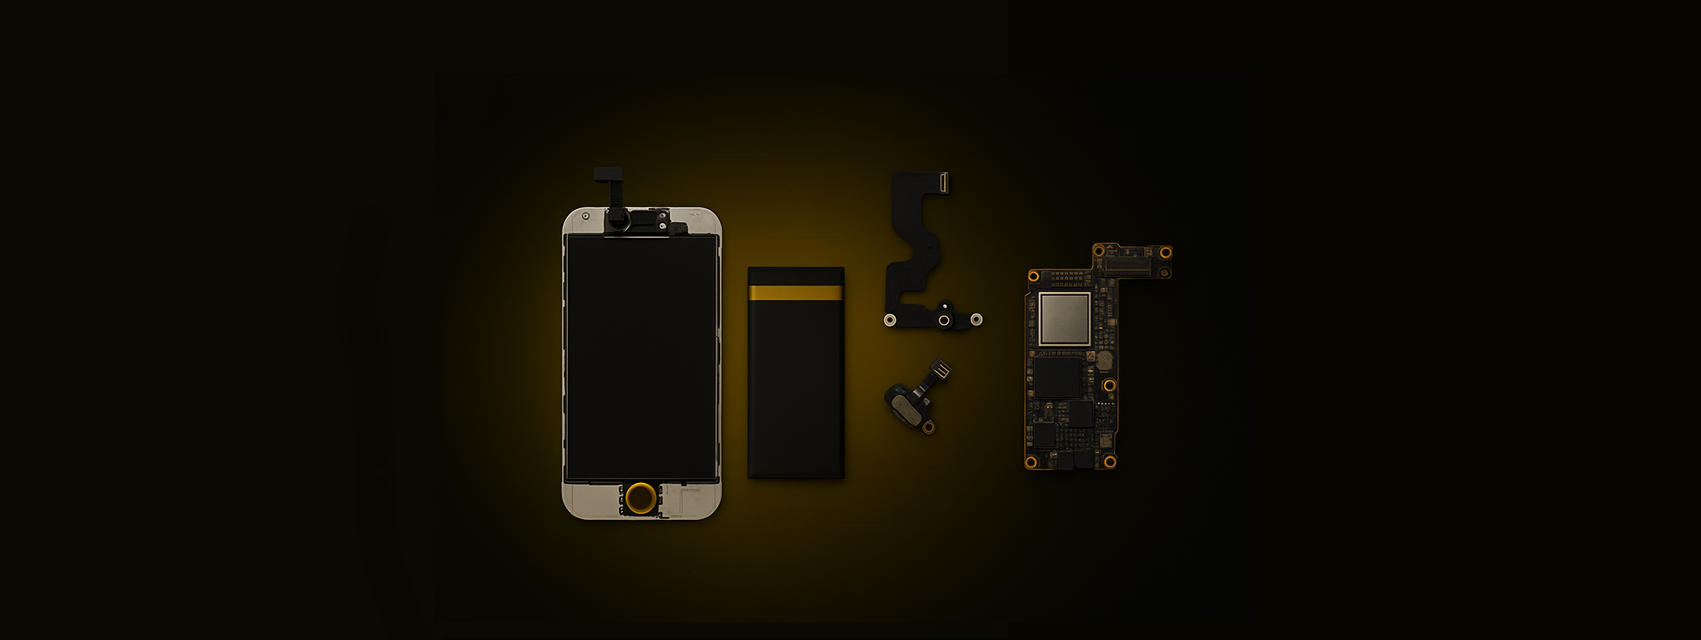
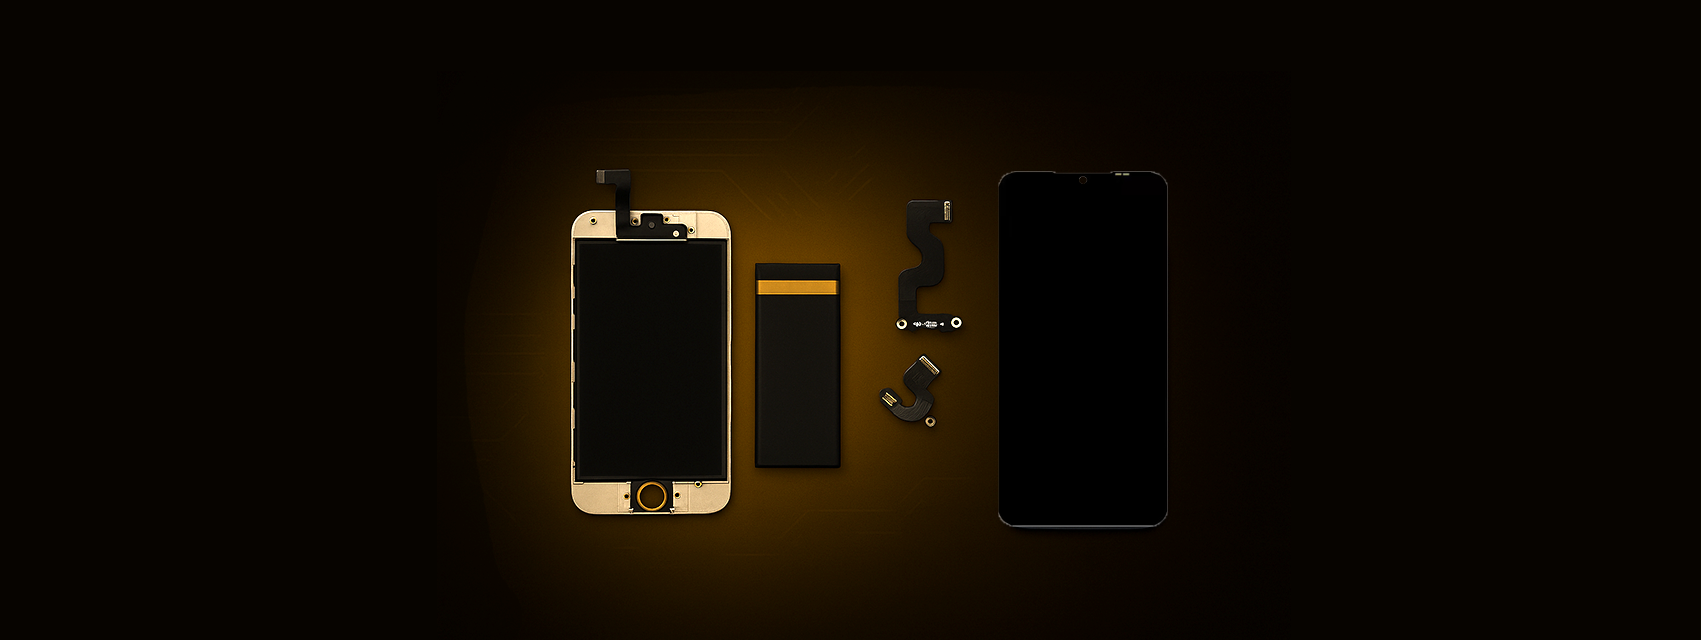
feature: paginado de marcas y productos en el admin

Changed region(s): [[0.3116, 0.25, 0.6855, 0.8438], [0.592, 0.8125, 0.6855, 0.8438], [0.6543, 0.25, 0.6855, 0.2812]]

diff --git a/src/app/(root)/admin/product/components/table.jsx b/src/app/(root)/admin/product/components/table.jsx
@@ -1,30 +1,46 @@
 "use client";
 
 import { useEffect, useState } from "react";
-import { getProductsAction, deleteProductAction } from "@/actions/product";
+import { getProductsAdminAction, deleteProductAction } from "@/actions/product";
 import { Trash2 } from "lucide-react"; 
 import Swal from "sweetalert2";
 import CustomLoading from "@/app/components/customLoading";
+import PaginationAdminComponent from "../../components/paginationAdmin";
 
 const Table = () => {
   const [products, setProducts] = useState([]);
   const [loading, setLoading] = useState(true);
+  const [currentPage, setCurrentPage] = useState(0);
+  const [totalPages, setTotalPages] = useState(1);
+  const size = 10; 
+
 
   useEffect(() => {
     fetchProducts();
   }, []);
 
-  const fetchProducts = async () => {
+  const fetchProducts = async (page = 0) => {
     try {
       setLoading(true);
-      const data = await getProductsAction();
+      const { data, totalPages } = await getProductsAdminAction(page, size);
       setProducts(data);
+      setTotalPages(totalPages);
     } catch (err) {
       console.error(err);
     } finally {
       setLoading(false);
     }
   };
+
+  useEffect(() => {
+    fetchProducts(currentPage);
+  }, [currentPage]);
+
+  const handlePageChange = (page) => {
+    setCurrentPage(page);
+  };
+
+
 
   const handleDelete = async (product) => {
     const result = await Swal.fire({
@@ -142,6 +158,11 @@ const Table = () => {
               ))}
             </tbody>
           </table>
+          <PaginationAdminComponent
+            currentPage={currentPage}
+            totalPages={totalPages}
+            onPageChange={handlePageChange}
+          />
         </div>
       )}
     </div>

diff --git a/src/app/(root)/admin/brand/components/tableBrands.jsx b/src/app/(root)/admin/brand/components/tableBrands.jsx
@@ -5,25 +5,39 @@ import { getBrandsAction, deleteBrandAction } from "@/actions/brand";
 import { Trash2 } from "lucide-react"; 
 import Swal from "sweetalert2";
 import CustomLoading from "@/app/components/customLoading";
+import PaginationAdminComponent from "../../components/paginationAdmin";
 
 const TableBrands = () => {
   const [brands, setBrands] = useState([]);
   const [loading, setLoading] = useState(true);
+  const [currentPage, setCurrentPage] = useState(0);
+  const [totalPages, setTotalPages] = useState(1);
+  const size = 10; 
+
 
   useEffect(() => {
     fetchBrands();
   }, []);
 
-  const fetchBrands = async () => {
+  const fetchBrands = async (page = 0) => {
     try {
       setLoading(true);
-      const data = await getBrandsAction();
+      const { data, totalPages } = await getBrandsAction(page, size);
       setBrands(data);
+      setTotalPages(totalPages);
     } catch (err) {
       console.error(err);
     } finally {
       setLoading(false);
     }
+  };
+
+  useEffect(() => {
+    fetchBrands(currentPage);
+  }, [currentPage]);
+
+  const handlePageChange = (page) => {
+    setCurrentPage(page);
   };
 
   const handleDelete = async (brand) => {
@@ -124,6 +138,12 @@ const TableBrands = () => {
               ))}
             </tbody>
           </table>
+          <PaginationAdminComponent
+            currentPage={currentPage}
+            totalPages={totalPages}
+            onPageChange={handlePageChange}
+          />
+
         </div>
       )}
     </div>

diff --git a/src/actions/brand.js b/src/actions/brand.js
@@ -1,10 +1,14 @@
 'use server'
 
-import { getBrands, createBrand, deleteBrand } from "@/lib/api/brand"
+import { getBrands, createBrand, deleteBrand, getBrandsDropDown } from "@/lib/api/brand"
 
-export async function getBrandsAction() {
-    const {data, headers} = await getBrands()
-    return data
+export async function getBrandsAction(page = 0, size = 10) {
+   const { data, headers } = await getBrands(page, size);
+  
+    const totalCount = parseInt(headers["x-total-count"] || "0", 10);
+    const totalPages = Math.ceil(totalCount / size);
+  
+    return { data, totalPages };
   }
 
 export async function createBrandAction(formData) {
@@ -16,3 +20,9 @@ export async function deleteBrandAction(id){
     const {data, headers} = await deleteBrand(id)
     return data 
 }
+
+export async function getBrandsDropdownAction() {
+    const {data, headers} = await getBrandsDropDown()
+    return data
+  }
+

diff --git a/src/actions/product.js b/src/actions/product.js
@@ -1,6 +1,6 @@
 'use server'
 
-import { getProducts, createProduct, deleteProduct } from "@/lib/api/product"
+import { getProducts, createProduct, deleteProduct, getProductsAdmin } from "@/lib/api/product"
 
 export async function getProductsAction() {
     const {data, headers} = await getProducts()
@@ -16,3 +16,12 @@ export async function deleteProductAction(id){
     const {data, headers} = await deleteProduct(id)
     return data 
 }
+
+export async function getProductsAdminAction(page = 0, size = 10) {
+   const { data, headers } = await getProductsAdmin(page, size);
+  
+    const totalCount = parseInt(headers["x-total-count"] || "0", 10);
+    const totalPages = Math.ceil(totalCount / size);
+  
+    return { data, totalPages };
+  }

diff --git a/src/lib/api/brand.js b/src/lib/api/brand.js
@@ -1,8 +1,8 @@
 import 'server-only'
 import { apiRequest } from '../apiRequest'
 
-export async function getBrands() {
-    return await apiRequest(`/brand`, 'GET', null, 'application/json', false)
+export async function getBrands(page = 0, size = 10) {
+    return await apiRequest(`/brand?page=${page}&size=${size}`, 'GET', null, 'application/json', false)
   }
 
 export async function createBrand(formData) { 
@@ -12,3 +12,8 @@ export async function createBrand(formData) {
 export async function deleteBrand(id){
   return await apiRequest(`/brand/${id}`, 'DELETE', null, 'application/json', true)
 }
+
+export async function getBrandsDropDown() {
+  return await apiRequest(`/brand?size=100`, 'GET', null, 'application/json', false);
+}
+

diff --git a/src/app/(root)/admin/replacement/components/addReplacementModal.jsx b/src/app/(root)/admin/replacement/components/addReplacementModal.jsx
@@ -3,7 +3,7 @@
 import { useState, useEffect } from 'react';
 import Swal from 'sweetalert2';
 import { createReplacementAction } from '@/actions/replacement';
-import { getBrandsAction } from '@/actions/brand';
+import { getBrandsDropdownAction } from '@/actions/brand';
 import { getTypeReplacementsDropdownAction } from '@/actions/typereplacement';
 
 const AddReplacementModal = ({ isOpen, onClose }) => {
@@ -17,7 +17,7 @@ const AddReplacementModal = ({ isOpen, onClose }) => {
                 setLoading(true);
                 try {
                     const [brandsData, typeReplacementsData] = await Promise.all([
-                        getBrandsAction(),
+                        getBrandsDropdownAction(),
                         getTypeReplacementsDropdownAction()
                     ]);
                     

diff --git a/src/lib/api/product.js b/src/lib/api/product.js
@@ -12,3 +12,7 @@ export async function createProduct(formData) {
 export async function deleteProduct(id){
   return await apiRequest(`/product/${id}`, 'DELETE', null, 'application/json', true)
 }
+
+export async function getProductsAdmin(page = 0, size = 10) {
+    return await apiRequest(`/product?page=${page}&size=${size}`, 'GET', null, 'application/json', false)
+  }